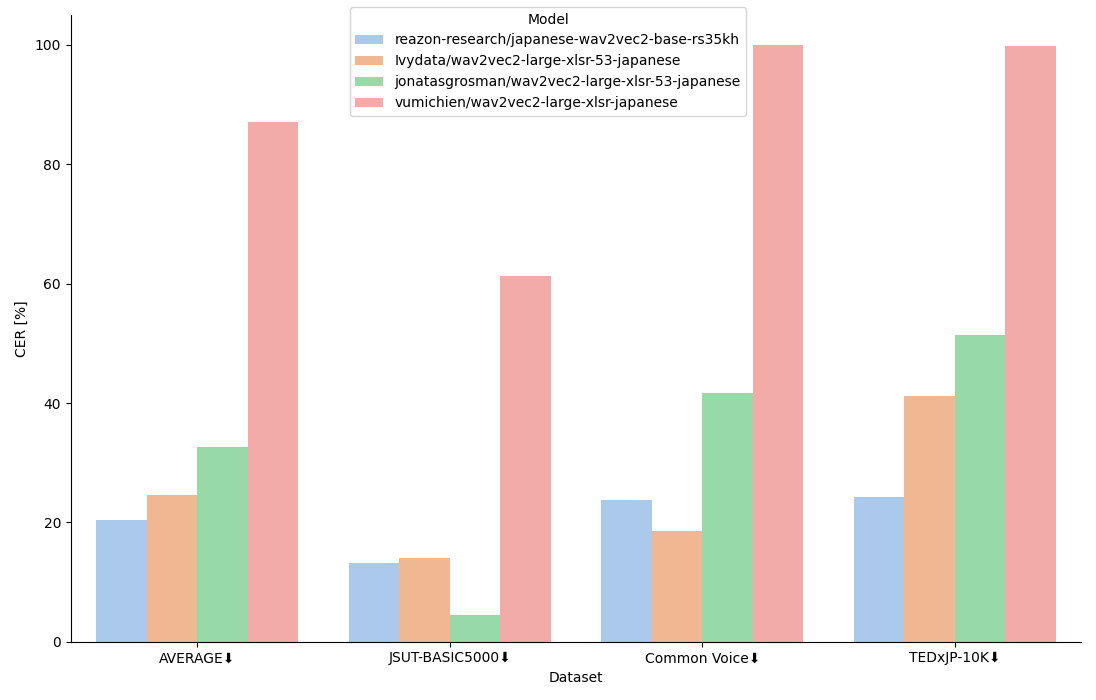
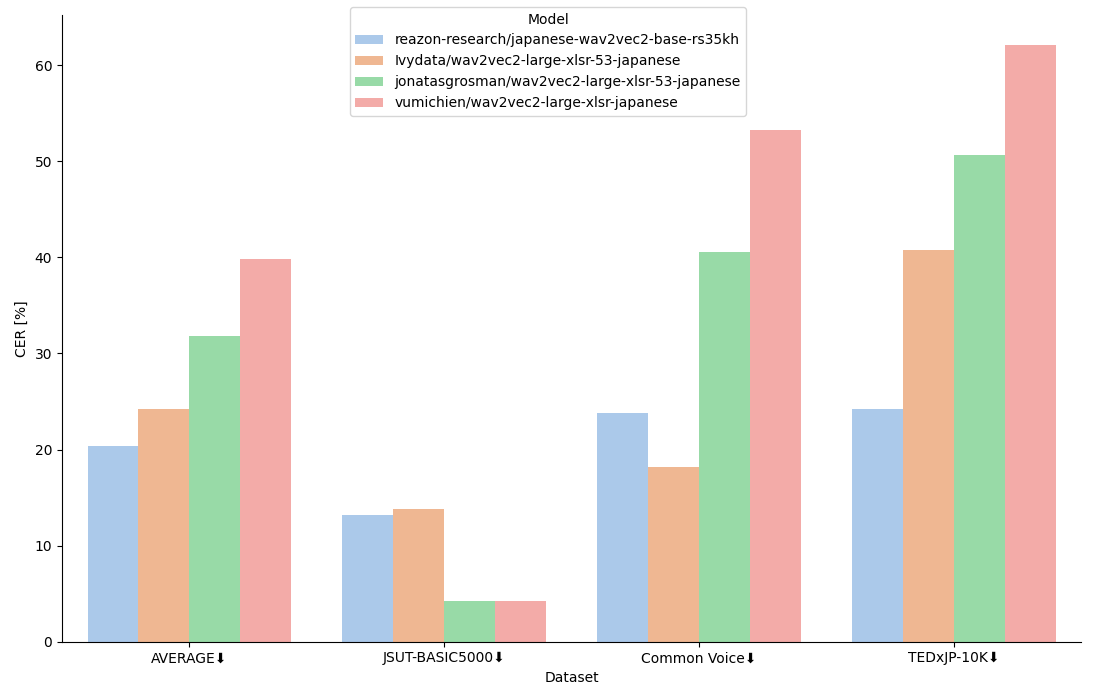
update article and re-benchmark models

diff --git a/source/blog/2024-10-21-Wav2Vec2-base-release.md b/source/blog/2024-10-21-Wav2Vec2-base-release.md
@@ -1,20 +1,20 @@
 # (2024-10-21) 大規模日本語音声による事前学習モデルWav2Vec2を公開
 
-35,000時間の大規模日本語音声コーパスReazonSpeech v2.0を用いて事前学習及びファインチューニングを行なったWav2Vec2 [1]を公開したことをお知らせします。
+35,000時間の大規模日本語音声コーパスReazonSpeech v2.0を用いて事前学習及びファインチューニングを行ったWav2Vec2 [1]を公開しました！
+
+本記事では、公開したモデルのベンチマーク結果と、Transformersライブラリを用いたWav2Vec2の事前学習の方法を紹介します。
 
 今回公開したモデルは、以下の2つのWav2Vec2 Baseモデルです。
 
 - [`reazon-research/japanese-wav2vec2-base`](https://huggingface.co/reazon-research/japanese-wav2vec2-base)
-   - ReazonSpeech v2.0を用いて事前学習を行なったモデル
+   - ReazonSpeech v2.0コーパスを用いて事前学習を行ったモデル
 - [`reazon-research/japanese-wav2vec2-base-rs35kh`](https://huggingface.co/reazon-research/japanese-wav2vec2-base-rs35kh)
-   - `reazon-research/japanese-wav2vec2-base`をReazonSpeech v2.0を用いてCTCファインチューニングを行なったモデル
-
-本記事では、他のWav2Vec2ファミリーモデルも併せたベンチマーク結果と、Wav2Vec2モデルをTransformersライブラリ基盤の上で事前学習を行うための方法についてお話しします。
+   - `reazon-research/japanese-wav2vec2-base`をReazonSpeech v2.0コーパスを用いてCTCファインチューニングを行ったモデル
 
 ## ベンチマーク結果
 
-ここでは、CTCファインチューニングを行なった`reazon-research/japanese-wav2vec2-base-rs35kh`とその他Wav2Vec2ファミリーのCTCモデルを用いて、日本語音声の書き起こし性能のベンチマークを行います。  
-学習データとして用いていない、JSUT-BASIC5000 [2]、Common Voice [3]、TEDxJP-10K [4]の3つのデータセットを用いて性能を検証します。
+ここでは、CTCファインチューニングを行った`reazon-research/japanese-wav2vec2-base-rs35kh`とその他Wav2Vec2ファミリーのCTCモデルを用いて、日本語音声の書き起こし性能のベンチマークを行います。  
+`japanese-wav2vec2-base-rs35kh`の学習データとして用いていない、JSUT-BASIC5000 [2]、Common Voice [3]、TEDxJP-10K [4]の3つのデータセットを用いて性能を検証します。
 評価指標には、CER (Character Error Rate)を用います。
 
 ベンチマークに使用したモデルと学習データは以下の表の通りです。
@@ -27,25 +27,84 @@
 | `jonatasgrosman/wav2vec2-large-xlsr-53-japanese` | `facebook/wav2vec2-large-xlsr-53`        | Common Voice, CSS10, JSUT |
 | `vumichien/wav2vec2-large-xlsr-japanese`         | `facebook/wav2vec2-large-xlsr-53`        |    Common Voice, JSUT     |
 
-※ XLSR [5]とは、53言語の音声データを用いて、Wav2Vec2.0の学習フレームワークにより事前学習を行なったモデルです。
+※ XLSR [5]とは、53言語の音声データを用いて、Wav2Vec2.0の学習フレームワークにより事前学習を行ったモデルです。
 
 ![benchmark](./2024-10-21-Wav2Vec2-base-release/bench.png)
 
 上図はベンチマーク結果を示しており、AVERAGEは3つのデータセットでのCERの平均値です。
 
-`reazon-research/japanese-wav2vec2-base-rs35kh`以外のモデルは、JSUTやCommon Voiceを用いて学習しているため、今回使用したテストセットでリークが起きていたり、in-domainデータでの評価になっていたりする可能性があります。  
-その中でも、今回公開するモデルのAVERAGEはもっとも良い結果となっており、十分な性能が出ているのではないでしょうか。
+結果から、`japanese-wav2vec2-base-rs35kh`はAVERAGEで最もCERが低く、良い性能を示しています。
+
+しかし、JSUT-BASIC5000やCommon Voiceでは、他モデルの方が非常に良い性能を示す場合があります。
+他モデルは学習データにJSUT-BASIC5000やCommon Voiceを用いているため、テストデータとして用いたデータが学習データに含まれている可能性が考えられます。
+
+ベンチマークに使用した全てのテストデータは`japanese-wav2vec2-base-rs35kh`の学習データに含まれていないが、AVERAGEでは最も良い性能を示しており、十分な性能が得られているのではないでしょうか。
 
 ![jsut-book](./2024-10-21-Wav2Vec2-base-release/jsut-book.png)
 
 試しに長時間音声が含まれるJSUT-Bookコーパスでベンチマークを行うと、上図のような結果になりました。
 
-長時間音声に対しては、`reazon-research/japanese-wav2vec2-base-rs35kh`はもっとも悪い性能となっており、長時間の音声を一気に処理するには向いていないようです。  
+長時間音声に対しては、`japanese-wav2vec2-base-rs35kh`はもっとも悪い性能となっています。
+
+学習に用いたReazonSpeech v2.0コーパスには、数分単位の長時間音声が含まれないため、長時間音声を一気に処理するには向いていないようです。  
+
 長時間音声に対応するためには、短い音声セグメントに区切ってから処理したり、長時間音声用にファインチューニングするなどの工夫が必要そうです。
+
+<details>
+<summary>評価コード参考</summary>
+
+以下のコードは推論とCERの計算を行うサンプルコードです。
+
+※ `vumichien/wav2vec2-large-xlsr-japanese`の推論結果には、トークン間に空白が入ってしまうため、
+モデルの推論結果から空白を除くよう処理を加えました。  
+(例: 今 流行 の 単身 赴任 族 の 淋し さ を ちょっぴり 味ごば せ て もらっ た の も 有 意義 の 体験 だ)
+
+```python
+import re
+import num2words
+import editdistance
+import librosa
+import numpy as np
+import torch
+from transformers import AutoProcessor, Wav2Vec2ForCTC
+
+PUNCTUATIONS = {ord(x): "" for x in "、。「」『』，,？！!!?!?"}
+ZENKAKU = "ａｂｃｄｅｆｇｈｉｊｋｌｍｎｏｐｑｒｓｔｕｖｗｘｙｚＡＢＣＤＥＦＧＨＩＪＫＬＭＮＯＰＱＲＳＴＵＶＷＸＹＺ０１２３４５６７８９"
+HANKAKU = "abcdefghijklmnopqrstuvwxyzABCDEFGHIJKLMNOPQRSTUVWXYZ0123456789"
+ZEN2HAN = str.maketrans(ZENKAKU, HANKAKU)
+
+
+def normalize(s):
+    s = s.translate(PUNCTUATIONS).translate(ZEN2HAN)
+    conv = lambda m: num2words.num2words(m.group(0), lang='ja')
+    return re.sub(r'\d+\.?\d*', conv, s)
+
+
+model = Wav2Vec2ForCTC.from_pretrained(model_path).to("cuda")
+processor = AutoProcessor.from_pretrained(model_path)
+
+audio, _ = librosa.load(audio_filepath)
+audio = np.pad(audio, pad_width=int(0.5 * 16_000))
+input_values = processor(
+    audio,
+    return_tensors="pt",
+    sampling_rate=16_000
+).input_values.to("cuda")
+
+with torch.inference_mode():
+    logits = model(input_values).logits.cpu()
+predicted_ids = torch.argmax(logits, dim=-1)[0]
+transcription = processor.decode(predicted_ids, skip_special_tokens=True)
+asr = normalize(transcription.replace(" ", ""))
+text = normalize(text)
+dist = editdistance.eval(asr, text)
+cer = dist / len(text)
+```
+</details>
 
 ## Wav2Vec2をTransformersライブラリ基盤で事前学習するには？
 
-Wav2Vec2をTransformersライブラリ基盤の上で事前学習するには、少しだけコツが必要なため、解説を加えます。
+Wav2Vec2をTransformersライブラリ基盤の上で事前学習するには、少しだけコツが必要です。
 
 まず、`Transformers.Trainer`を用いて学習するためには、モデルが持つ`forward`メソッドの引数に`labels`、出力に`loss`を持つ必要があります。  
 **たとえ、`labels`を与える必要がなくても、必須です。**  
@@ -87,11 +146,11 @@ class Wav2Vec2ForPreTrainingWrapper(Wav2Vec2ForPreTraining):
 
 ## おわりに
 
-今回、35,000時間の大規模日本語音声コーパスReazonSpeech v2.0を用いて事前学習およびファインチューニングを行なったWav2Vec2の公開しました。  
+今回、35,000時間の大規模日本語音声コーパスReazonSpeech v2.0を用いて事前学習およびファインチューニングを行ったWav2Vec2を公開しました。  
 
 Apache 2.0ライセンスにて公開するため、ぜひ学術研究等で広くご活用ください！
 
-また、ファインチューニングデータを揃えたベンチマークなどによる詳細なモデル評価や、別データで継続学習を行なった派生モデルの開発などのフィードバックも、広くお待ちしております！
+また、ファインチューニングデータを揃えたベンチマークなどによる詳細なモデル評価や、別データで継続学習を行った派生モデルの開発などのフィードバックも、広くお待ちしております！
 
 ---
 
